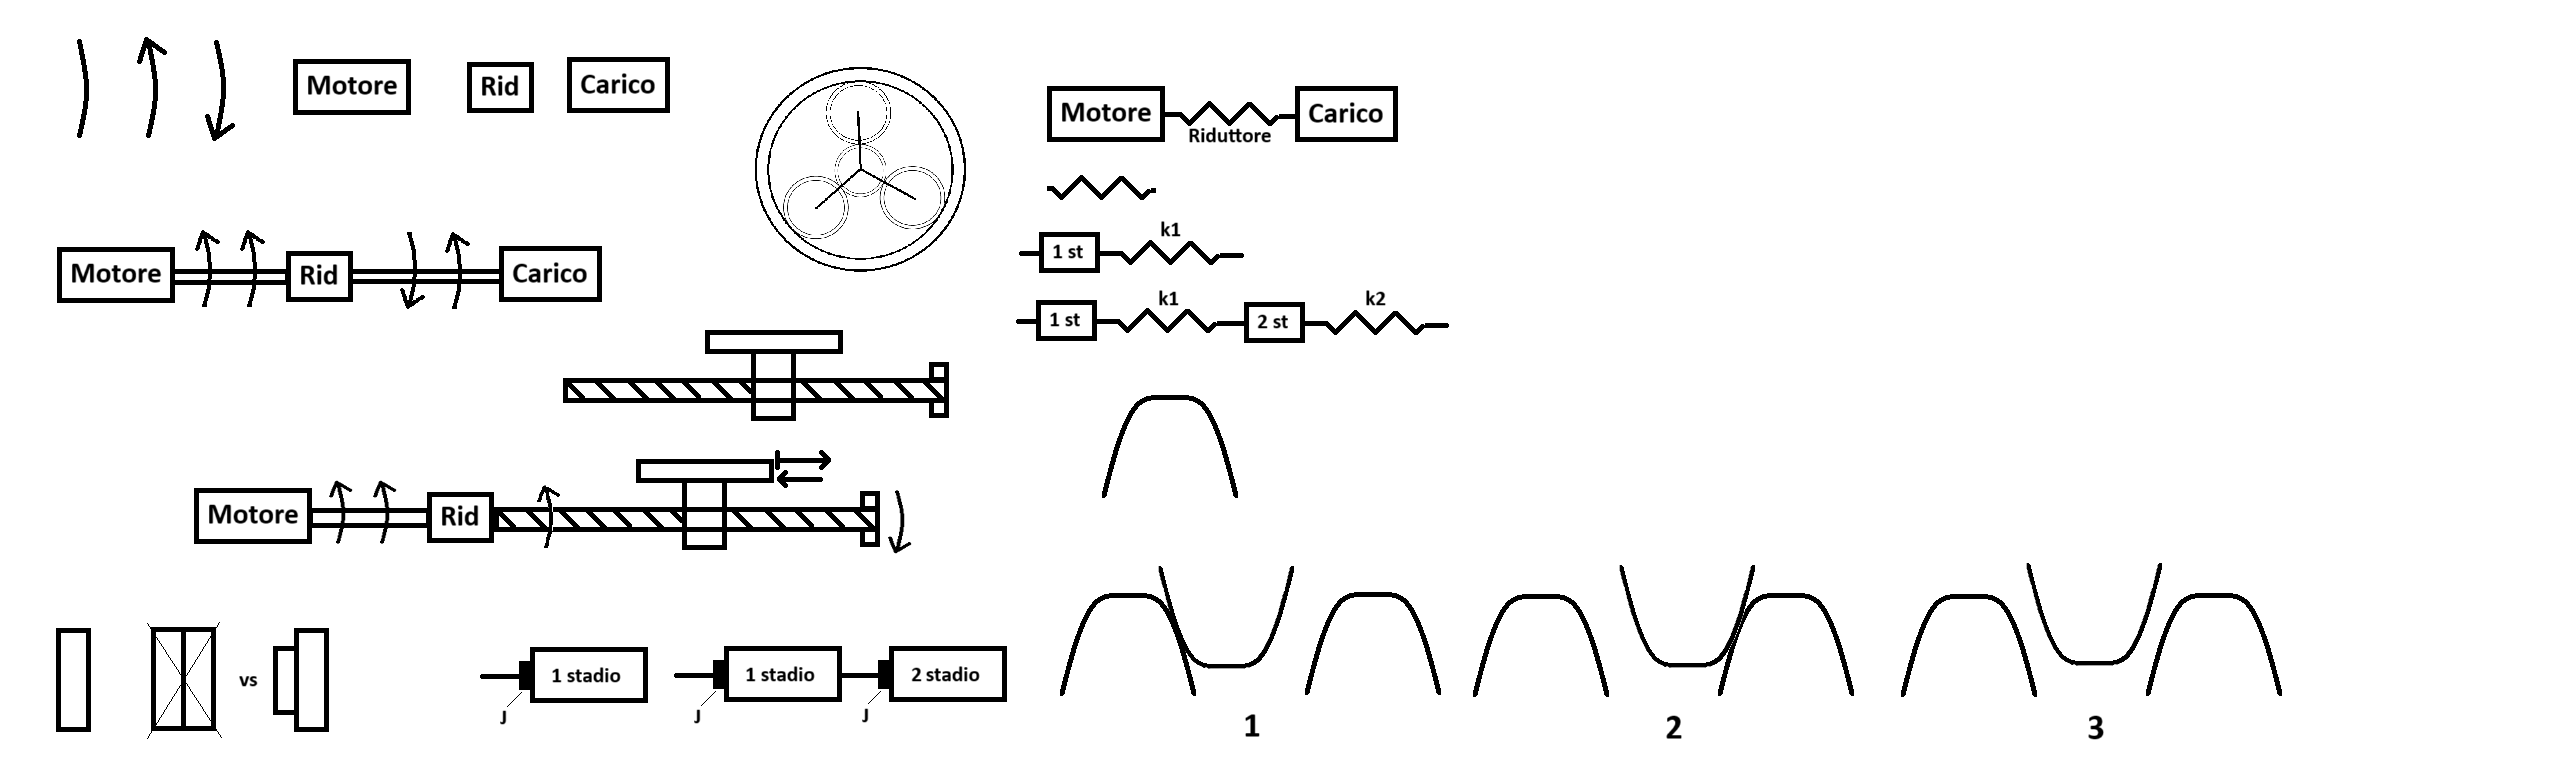
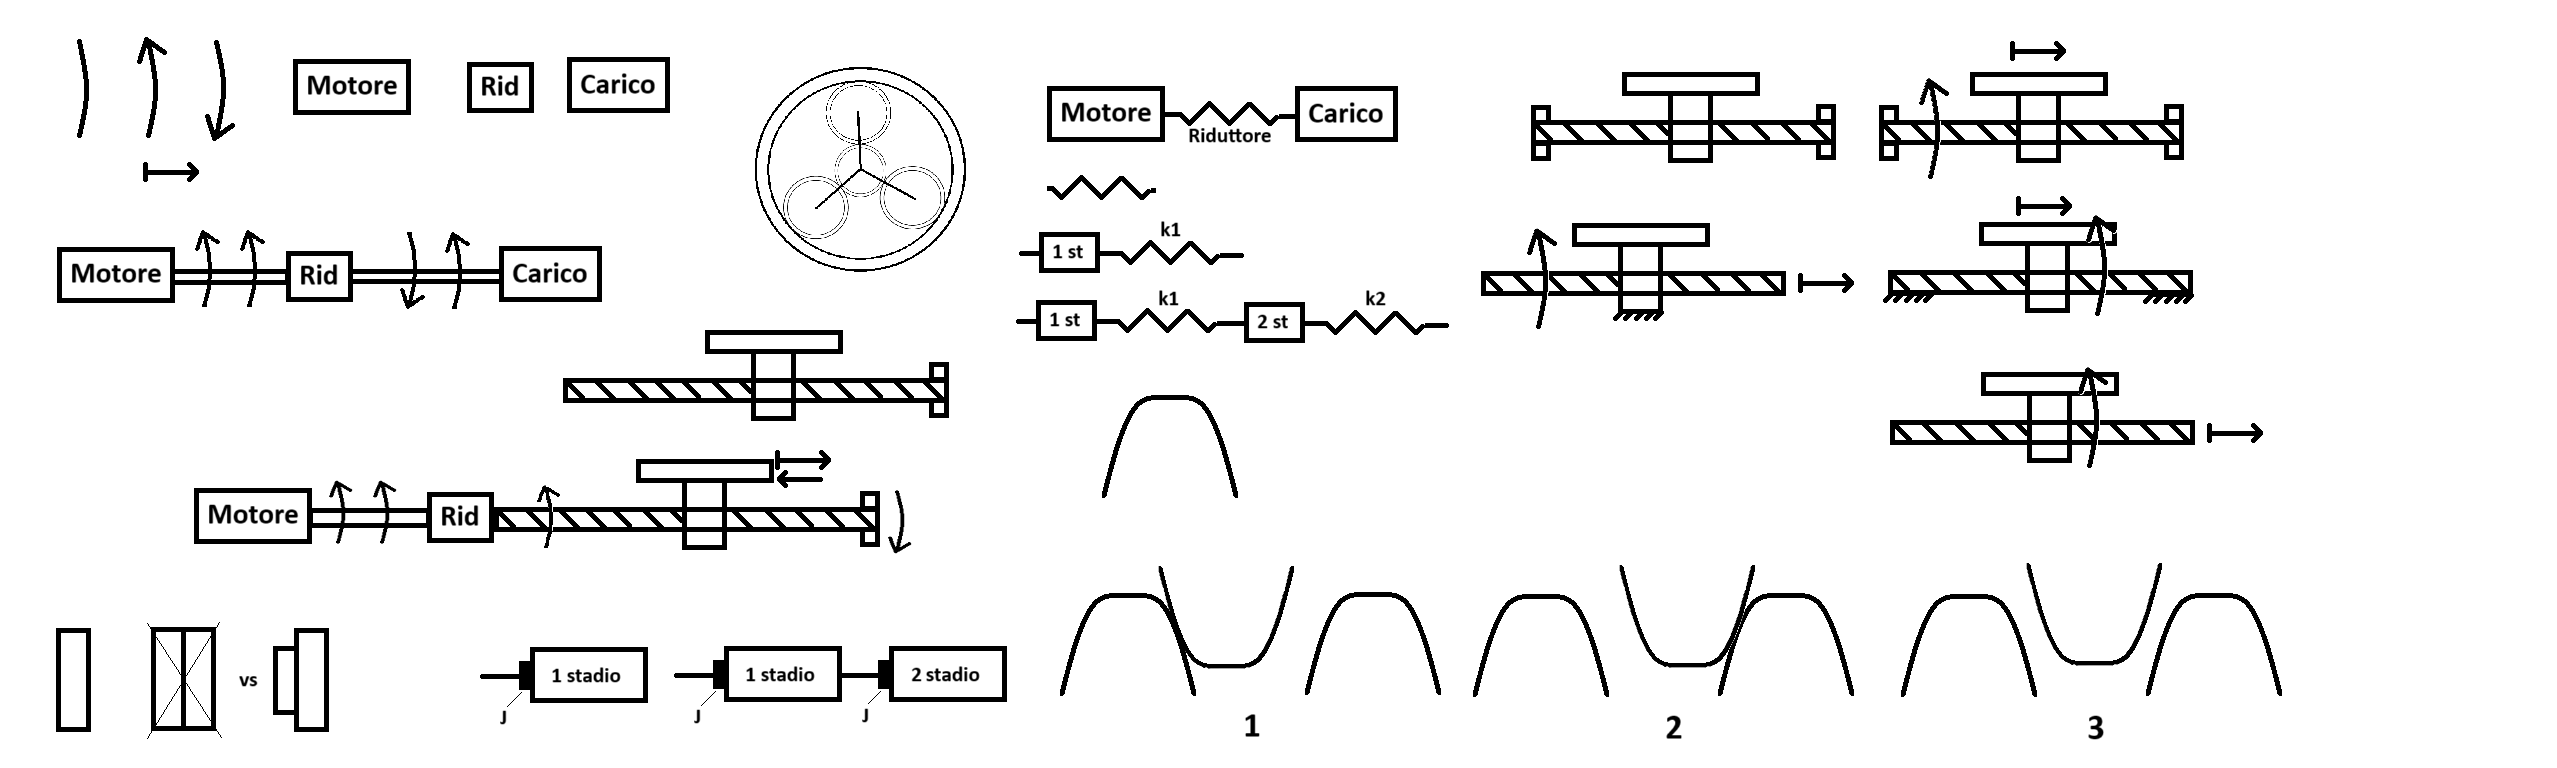
Aggiunta parte lezione 9, viti ricircolo di sfere, aggiunta immagini relative, aggiustatine a parte riduttori

diff --git a/Sottofile/DimensionamentoSceltaViti.tex b/Sottofile/DimensionamentoSceltaViti.tex
@@ -1,0 +1,74 @@
+\capitolo{Dimensionamento e Scelta di Viti a Ricircolo di Sfere}
+I riduttori vite madrevite classici sono a strisciamento e questa caratteristica li rende particolarmente soggetti all'attrito, quindi a ridotto rendimento e irreversibilità del moto. Queste sono caratteristiche desiderabili per strutture, meno per organi in moto, si fa largo la necessità di rendimenti superiori, quindi vengono utilizzate tecnologie differenti.
+
+La principale delle tecnologie alternative è quella di riduttori a vite a ricircolo di sfere in cui lo spostamento viene trasmesso dalle sfere che rotolando permettono di avere ridotto attrito, quindi rendimento maggiore, indicativamente \( \eta_{R\rightarrow T} \simeq 0.97 \simeq \eta_{T\rightarrow R} \).
+
+Le sfere sono poste all'interno di gole su cui possono scorrere, presenti al posto dei denti nella vite e madrevite, chiamata in questo contesto chiocciola.
+
+\paragrafo{Configurazioni cinematiche:}
+In termmini di cinematica le viti a ricircolo di sfere sono equivalenti alle viti-madreviti a strisciamento, in particolare vale ancora \( \tau_v = \frac{p}{2\pi} = \frac{\Delta x_{rel}}{\Delta \theta_{rel}} \), dove gli spostamenti sono considerati relativi.
+In seguito sono rappresentate le varie combinazioni di movimenti assoluti.
+
+\begin{figure}[h]
+    \centering
+    \includegraphics[width=0.9\textwidth]{Immagini/confi_din_vite_ricircolo.png}
+    \caption{4 possibili configurazioni rotazione-traslazione relative}
+\end{figure}
+
+\sezione{Parametri di scelta}
+La scelta di viti a ricircolo di sfere non è banale perché ha dipendenza da un alto numero di combinazioni possibili di diametri viti e sfere, passo della vite, vita utile, numero di principi e tipologia di materiali.
+
+\paragrafo{Numero di principi:}
+Con numero di principi si intendono i singoli percorsi indipendenti di ricircolo delle sfere. All'interno di un passo della vite potrebbe esserci sufficiente spazio per inserire un ulteriore ricircolo di sfere, così nasce una vite a due principi.
+
+\sottosezione{Dinamica}
+Similmente a come visto per i riduttori si vanno a definire la forza applicata sul carico: \( C_m = \left( J_m + J_v + M \frac{\tau_v^2}{\eta_v} \right) \AccAng_m + F \frac{\tau_v}{\eta_v} \), da cui, a seguito di opportuna manipolazione, si ottiene: \( C_m = \left(J_m + J_v\right) \frac{\Ddot x}{\tau_v} + \frac{\tau_v}{\eta_v} \left( M\Ddot x + F \right) \), dove:
+\[ F_a = M\Ddot x + F \]
+risultante delle forze assiali applicate alla chiocciola (equivalente a \( T_2 \) dei riduttori).
+
+\begin{figure}[h]
+    \centering
+    \includegraphics[width=0.4\textwidth]{Immagini/mot_vite_ricircolo.png}
+    \caption{Schema motore e vite a ricircolo di sfere}
+\end{figure}
+
+\sottosottosezione{Forza assiale media}
+Anche in questo caso nel regime stazionario si fanno valutazioni sulla media, e in modo simile a \( T_{2,media} \) si ottiene:
+\[ F_{a, media} = \sqrt[3]{\frac{\int^{T_{ciclo}}_0 \abs{F_a^3(t)\Ddot{x}_c(t)dt}}{\int^{T_{ciclo}}_0 \abs{\Ddot{x}_c(t)}dt}} \]
+E anche in questo caso per moto ad andamento trapezoidale l'integrale diventerà una sommatoria.
+
+\sottosottosezione{Capacità di Carico Dinamico}
+Per capacità di carico dinamico \( C_D [N] \) si intende nei cataloghi la forza assiale applicata alla  chiocciola che garantisce con probabilità di sopravvivenza del \(90\%\) la vita utile di \(10^6\) giri relativi vite-chiocciola.
+
+\paragrafo{Migliorare la probabilità:}
+Per migliorare la probabilità occorre utilizzare un fattore di affidabilità \(<1\) che vada a penalizzare il valore a catalogo. Si tratta di valori ricavati statisticamente, non hanno significato di coefficiente di sicurezza.
+
+\paragrafo{Utilizzo di CCD in verifica:}
+Noti \(C_D, F_{a, media}\), volendo calcolare la vita utile della chiocciola per il \(90\%\) di probabilità di sopravvivenza si utilizza la formula di Wohler: \( C_D^3 10^6 = F_{a,media}^3 L_N \), con \(L_N\) vita utile in termini di numero di rotazioni.
+
+\paragrafo{Utilizzo di CCD in dimensionamento:}
+Noto \(F_{a,media}\), data dalla specifica in termini di giri sulla vita utile \(L_N^{des}\) desiderata, è possibile calcolare \(C_D\) idoneo a garantire la vita desiderata al \(x\%\) invertendo la formula e utilizzando un opportuno fattore di affidabilità.
+
+\paragrafo{Vita utile in ore:}
+Solitamente non è nota la vita utile in numero di giri relativi, è più comodo passare in ore di lavoro, quindi 
+\[ L_H = L_N \frac{1}{\VelAng_v} \frac{1}{60} [h] = L_N \frac{p}{3600 \cdot \dot{x}_{media}} \]
+che si traduce in una CCD richiesta: 
+\[ C_{D,rich} \geqslant F_{a,media} \sqrt[3]{\frac{L_H^{des}\dot{x}^{des} \cdot 3600}{p \cdot 10^6}} f_s \]
+
+\sottoparagrafo{Fattore di Shock/Servizio:}
+Alla CCD in esame va moltiplicato un fattore di shock o servizio \( f_s \), i cui valori possono cambiare tra \( 1.2 \div 3 \), se possibile conviene utilizzare un modello elasto-dinamico per avere una idea delle forze in gioco e evitare di sovradimensionare la chiocciola.
+
+\paragrafo{Dipendenze della CCD richiesta:}
+La CCD è dipendente direttamente da velocità traslante e vita utile, mentre è inversamente dipendente dal passo \( p \downarrow, C_D \uparrow\). La dipendenza inversa del passo risulta chiara immaginando che i passi minori portano a un maggior numero di giri relativi a pari velocità.
+
+\paragrafo{Dipendenze della CCD:}
+Il carico dinamico sulla chiocciola dipende principalmente dal volume delle sfere e dal materiale delle stesse.
+Come regola generale conviene avere meno sfere più grandi che tenderanno a raggiungere un volume complessivo maggiore, inoltre garantiscono una maggior resistenza.
+
+%% inserire immagini pag 19 bassa, 20 alta
+
+\sottosottosezione{Velocità limite delle sfere}
+Durante il moto le sfere ruotano tra le due gole di vite e chiocciola, ma in questo movimento vanno anche a strisciare tra loro. Per velocità elevate risulta un aumento di riscaldamento e un aumento usura legato alla formazione di particolato di sfere.
+La relazione da verificare è \( v_{sfere} = \VelAng_v \frac{d}{2} < v_{lim} \) dove \(d\) è la distanza tra centri delle due sfere opposte, e con velocità limite specifica della chiocciola.
+
+Nei cataloghi non si tiene conto della velocità della sfera, ma del doppio, e viene chiamata "D \(\times\) n" \(= \VelAng_v\cdot d \), quindi  il limite diventa: \(d\VelAng_v < \text{"D}\times \text{n"}_{lim} \alpha = S \).  

diff --git a/Sottofile/DimensionamentoSceltaRiduttori.tex b/Sottofile/DimensionamentoSceltaRiduttori.tex
@@ -89,7 +89,9 @@ $n_{1,N}>\VelAng_m^{media}$, che in termini di rapporto di velocità diventa $\t
 Tuttavia anche in queste ultime disequazioni è nota la velocità di carico, per le velocità limite bisogna considerare di aver già determinato la coppia, quindi la taglia del riduttore, da cui posso determinare dei valori di velocità limite che saranno abbastanza simili a quelli poi usati effettivamente.
 
 \sottoparagrafo{Se la taglia di quel costruttore non ha valori che vadano bene?}
-Se la taglia del costruttore disponibile ha valori di velocità che non sono compatibili con quelli richiesti: per la velocità media c'è poco da fare, nel senso che è determinata dalla legge oraria, cioè dal tipo di funzionalità richiesta e variarla significa non dare al cliente ciò che ha richiesto; per la velocità massima invece c'è più margine di scelta perché il coefficiente di sicurezza è maggiore. \label{rivalutazione_coeff_sic}
+Se la taglia del costruttore disponibile ha valori di velocità che non sono compatibili con quelli richiesti: per la velocità media c'è poco da fare, nel senso che è determinata dalla legge oraria, cioè dal tipo di funzionalità richiesta e variarla significa non dare al cliente ciò che ha richiesto.
+Potrebbe essere possibile modificare il coefficiente di sicurezza di modo da rientrare nella taglia inferiore di riduttore disponibile, ma va fatto coscienti del significato delle implicazioni: la velocità media, moltiplicata la coppia media $T_{2,media}$, è la potenza media $W_{media}$, usata per fare valutazioni termiche, che devono essere rispettate.
+Per la velocità massima invece c'è più margine di scelta perché il coefficiente di sicurezza è maggiore. \label{rivalutazione_coeff_sic}
 
 \sottosezione{Valutazioni su Riduttore}
 Ci sono diversi aspetti strutturali da considerare per la scelta di un riduttore.
@@ -122,6 +124,7 @@ Il rendimento varia con l'aumentare del numero di stadi, perché $\eta_r=\Pi_i \
     \item 2 stadio: $94\% \div 95\%$
     \item 3 stadio: $90\% \div 92\%$
 \end{itemize}
+I valori vengono presi in condizioni nominali, il rendimento è una curva che dipende dal punto di lavoro.
 
 \sottosottosezione{Rigidezza}
 In condizioni ideali bloccare l'albero veloce comporta il blocco dell'albero lento, tuttavia in condizioni reali presenterà una variazione circa lineare di tipo elastico (soprattutto nella zona di lavoro), a cui si va ad aggiungere una componente non lineare legata al gioco.
@@ -132,9 +135,11 @@ Nel caso multistadio la rigidezza da considerare è una rigidezza equivalente da
 
 \begin{figure}[h]
     \centering
+    \includegraphics[width=0.4\textwidth]{Immagini/efficiency_torque.png}
     \includegraphics[width=0.5\textwidth]{Immagini/rigidezza_1_2_stadi.png}
-    \caption{Schema equivalente rigidezza}
+    \caption{Caratteristica esempio rendimento sx; Schema equivalente rigidezza dx}
 \end{figure}
+
 
 \paragrafo{Cataloghi:}
 Nei cataloghi la rigidezza è definita all'albero lento, perché permette di fare calcoli più semplici in termini di deformazione vista dal carico.
@@ -240,6 +245,5 @@ Per verificare di aver utilizzato tutte le convezioni corrette conviene partire 
 Nell'esempio occorrerà valutare il segno dell'inerzia resistente e motrice nelle condizioni di salita e discesa.
 
 \paragrafo{Rivalutazione coefficiente di sicurezza:}
-Facendo l'esercizio ci si accorge che utilizzando un coefficiente di sicurezza del $20\%$ non si trova un riduttore tra quelli a disposizione perché la velocità media richiesta è troppo elevata. L'unica opzione\footnote{Vedi quanto detto a pagina \pageref{rivalutazione_coeff_sic}} è modificare il coefficiente di sicurezza. 
-Ma va fatto coscienti del significato delle implicazioni: l'aumento di velocità media, moltiplicata la coppia media $T_{2,media}$, è la potenza media $W_{media}$, usata per fare valutazioni termiche.
+Facendo l'esercizio ci si accorge che utilizzando un coefficiente di sicurezza del $20\%$ non si trova un riduttore tra quelli a disposizione perché la velocità media richiesta è troppo elevata. L'unica opzione\footnote{Vedi quanto detto a pagina \pageref{rivalutazione_coeff_sic}} è modificare il coefficiente di sicurezza.
 In questo caso particolare la $T_{2,media}$ è circa la metà di quella nominale, perciò termicamente il rischio è minimo, quindi è possibile abbassare il coefficiente di sicurezza relativo alla velocità media.

diff --git a/main.tex b/main.tex
@@ -52,6 +52,7 @@
 \import{Sottofile/}{Introduzione}
 \import{Sottofile/}{Modellistica}
 \import{Sottofile/}{DimensionamentoSceltaRiduttori}
+\import{Sottofile/}{DimensionamentoSceltaViti}
 
 \appendix
 \import{Sottofile/}{Appendice_controlli}
